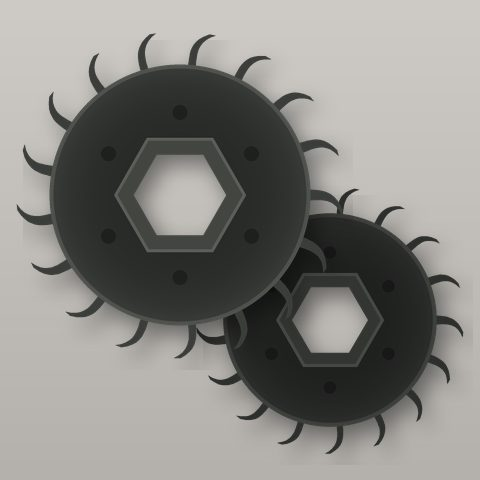
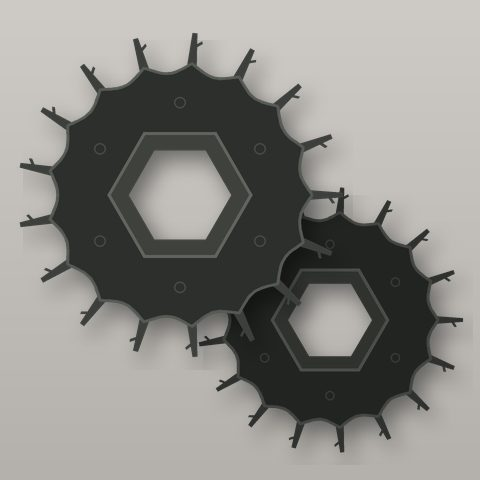
APV Zaaias: fijn wiel opnieuw getekend naar de foto
Holle kommetjesrand tussen 17 dunne rechte pinnen, elk met een klein
zijhaakje onder de punt, en een dun opstaand randje langs de kommetjes,
zoals het echte f-wiel. Voor ff-ff en ff-fb. sw.js naar zaaihulp-v56.

Claude-Session: https://claude.ai/code/session_01AHPvN2ELLwM9p3H4XwzKr4

diff --git a/sw.js b/sw.js
@@ -1,5 +1,5 @@
 // Zaaihulp service worker: werkt offline, haalt updates op zodra er internet is.
-const CACHE = "zaaihulp-v55";
+const CACHE = "zaaihulp-v56";
 const SHELL = ["./", "./index.html", "./manifest.webmanifest", "./icon-192.png", "./icon-512.png",
   "./fonts/barlow-latin-400-normal.woff2", "./fonts/barlow-latin-500-normal.woff2", "./fonts/barlow-latin-600-normal.woff2",
   "./fonts/barlow-semi-condensed-latin-500-normal.woff2", "./fonts/barlow-semi-condensed-latin-700-normal.woff2",

diff --git a/README.md b/README.md
@@ -55,7 +55,7 @@ Gebruik op een iPhone altijd het icoon op het beginscherm, niet los Safari: dan 
 ## Voor wie eraan werkt
 
 - **Alles in `index.html`:** HTML, CSS en JavaScript in één bestand. Geen build-stap, geen frameworks.
-- **`sw.js`:** de service worker voor offline gebruik. **Verhoog bij elke wijziging het versienummer** (`zaaihulp-v55` → `v56`), anders krijgen telefoons de update niet.
+- **`sw.js`:** de service worker voor offline gebruik. **Verhoog bij elke wijziging het versienummer** (`zaaihulp-v56` → `v57`), anders krijgen telefoons de update niet.
 - **`installeren.html`:** de installatiepagina. Herkent Android, iPhone of computer.
 - **`img/`:** plaatjes van de zaaiwielen (Flex 20 foto, fijn en fijnvol nagetekend) en foto's van de vaste rollen (480 px, ook offline in `sw.js`). Nieuwe vaste rol: foto in `img/`, regel in `ROL_VAST` in `index.html`, bestand in `SHELL` van `sw.js`.
 - **`fonts/`:** het lettertype Barlow, zelf gehost, zodat er geen verzoeken naar Google gaan. **`vendor/`:** externe bibliotheken als eigen kopie (QR-code), niets van een CDN.
